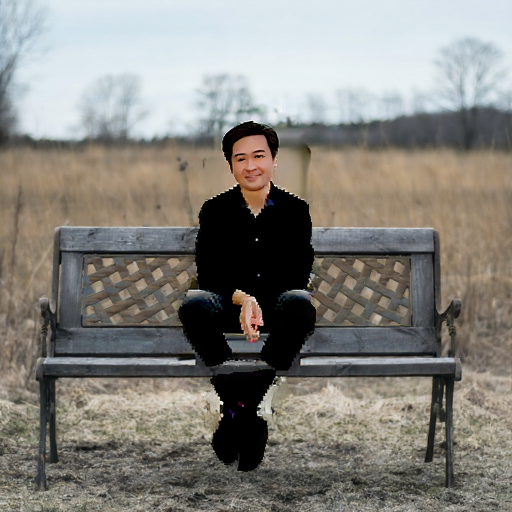
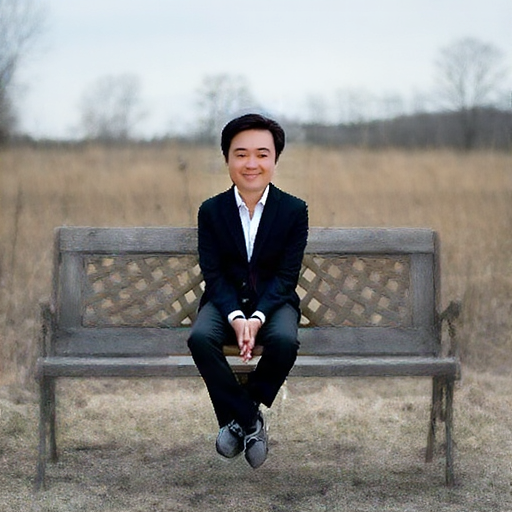
update datatest

Changed region(s): [[0.0, 0.125, 1.0, 1.0], [0.9062, 0.1875, 0.9375, 0.2188]]

diff --git a/demo_unified_pipeline_quant.py b/demo_unified_pipeline_quant.py
@@ -186,13 +186,13 @@ if __name__ == "__main__":
     control_mask = load_image(control_mask_path_local).convert("RGB").resize(output_size)
     # control_image = None
     # control_mask = None
-    generator = torch.Generator(device=device).manual_seed(42)
+    generator = torch.Generator(device=device).manual_seed(2025)
     print("Running unified pipeline...")
     result_image = pipe(
         prompt=PROMPT, negative_prompt=NEGATIVE_PROMPT, height=output_size[1], width=output_size[0],
-        control_image=control_image, control_mask=control_mask, controlnet_conditioning_scale=0.9,
-        ref_images=ref_images_processed, ref_masks=ref_masks_processed, redux_scale=0.8,
-        num_inference_steps=50, guidance_scale=3.5, true_guidance_scale=7, generator=generator,
+        control_image=control_image, control_mask=control_mask, controlnet_conditioning_scale=0.5,
+        ref_images=ref_images_processed, ref_masks=ref_masks_processed,
+        num_inference_steps=30, guidance_scale=3.5, true_guidance_scale=3.5, generator=generator,
     ).images[0]
 
     # --- PHẦN 4: LƯU KẾT QUẢ ---
